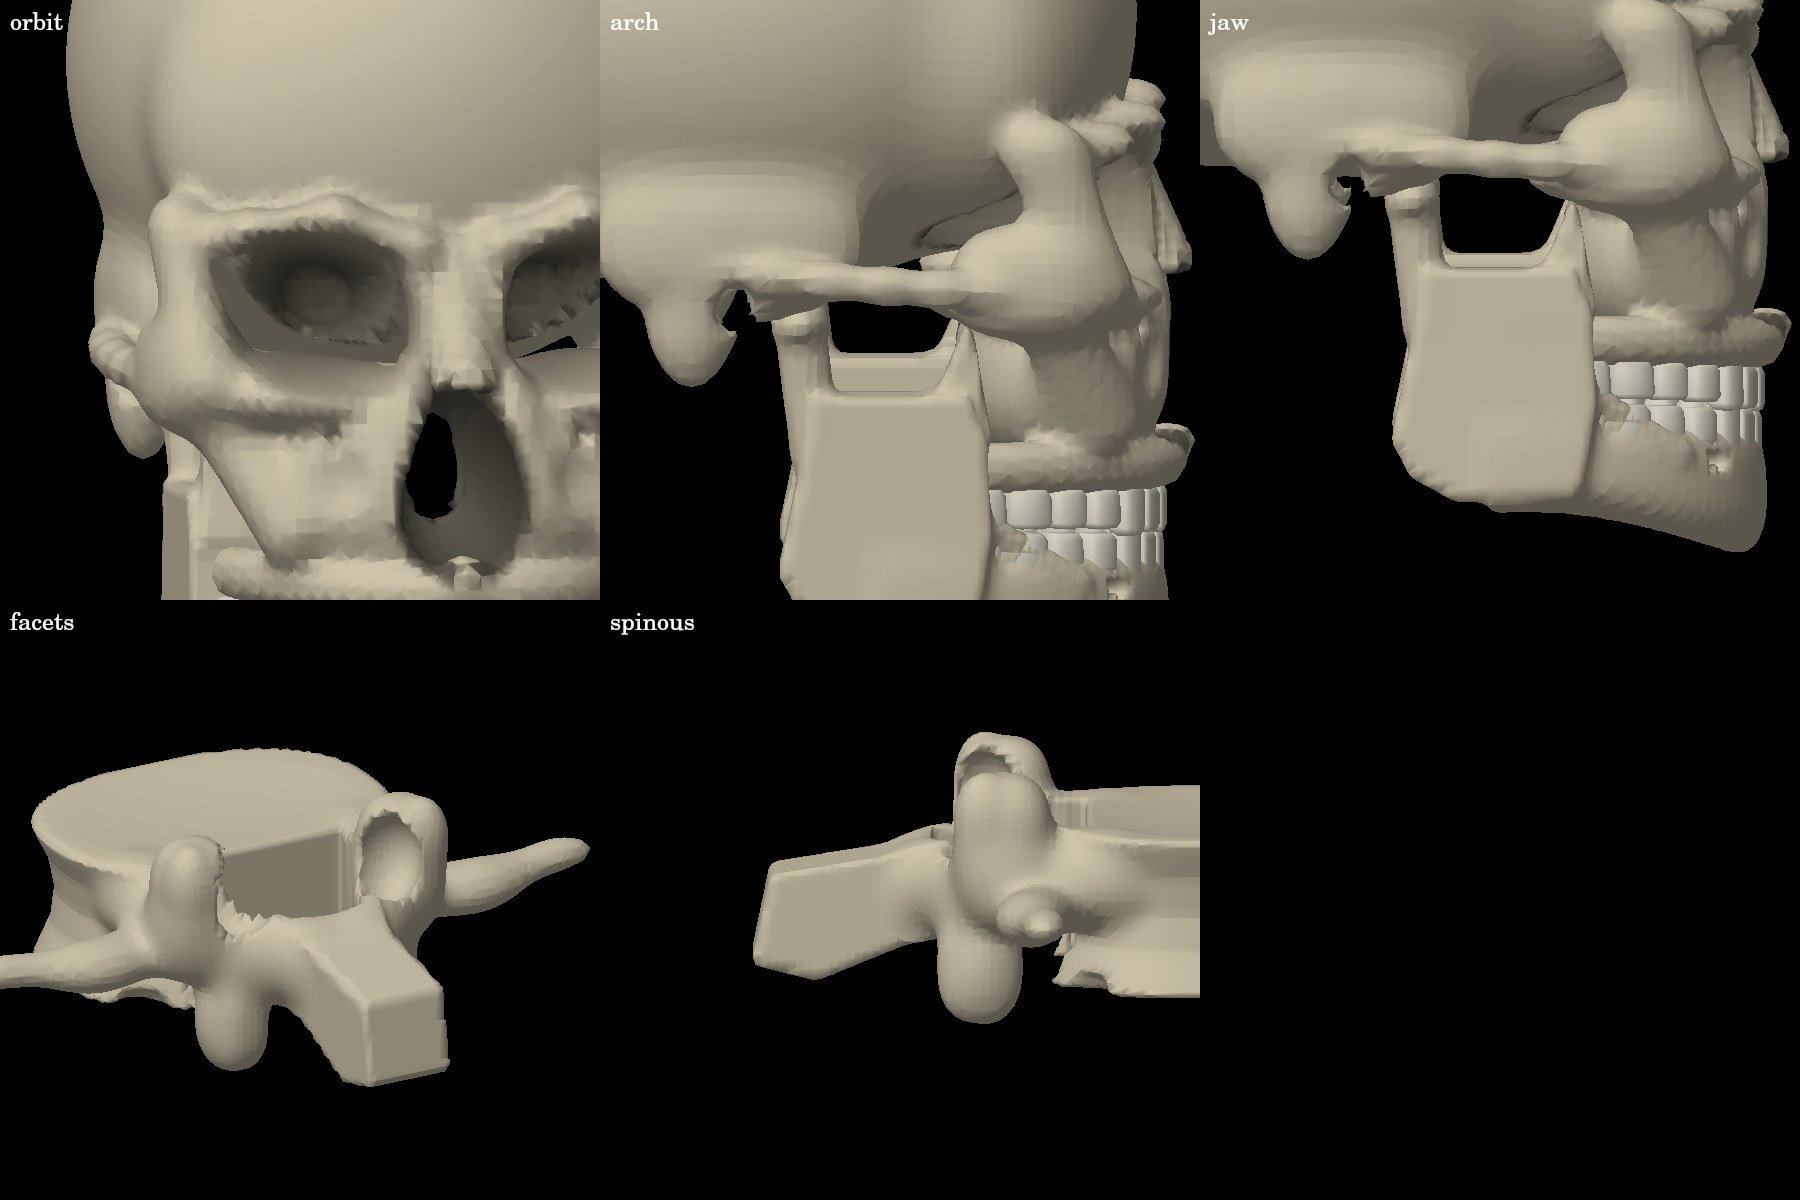
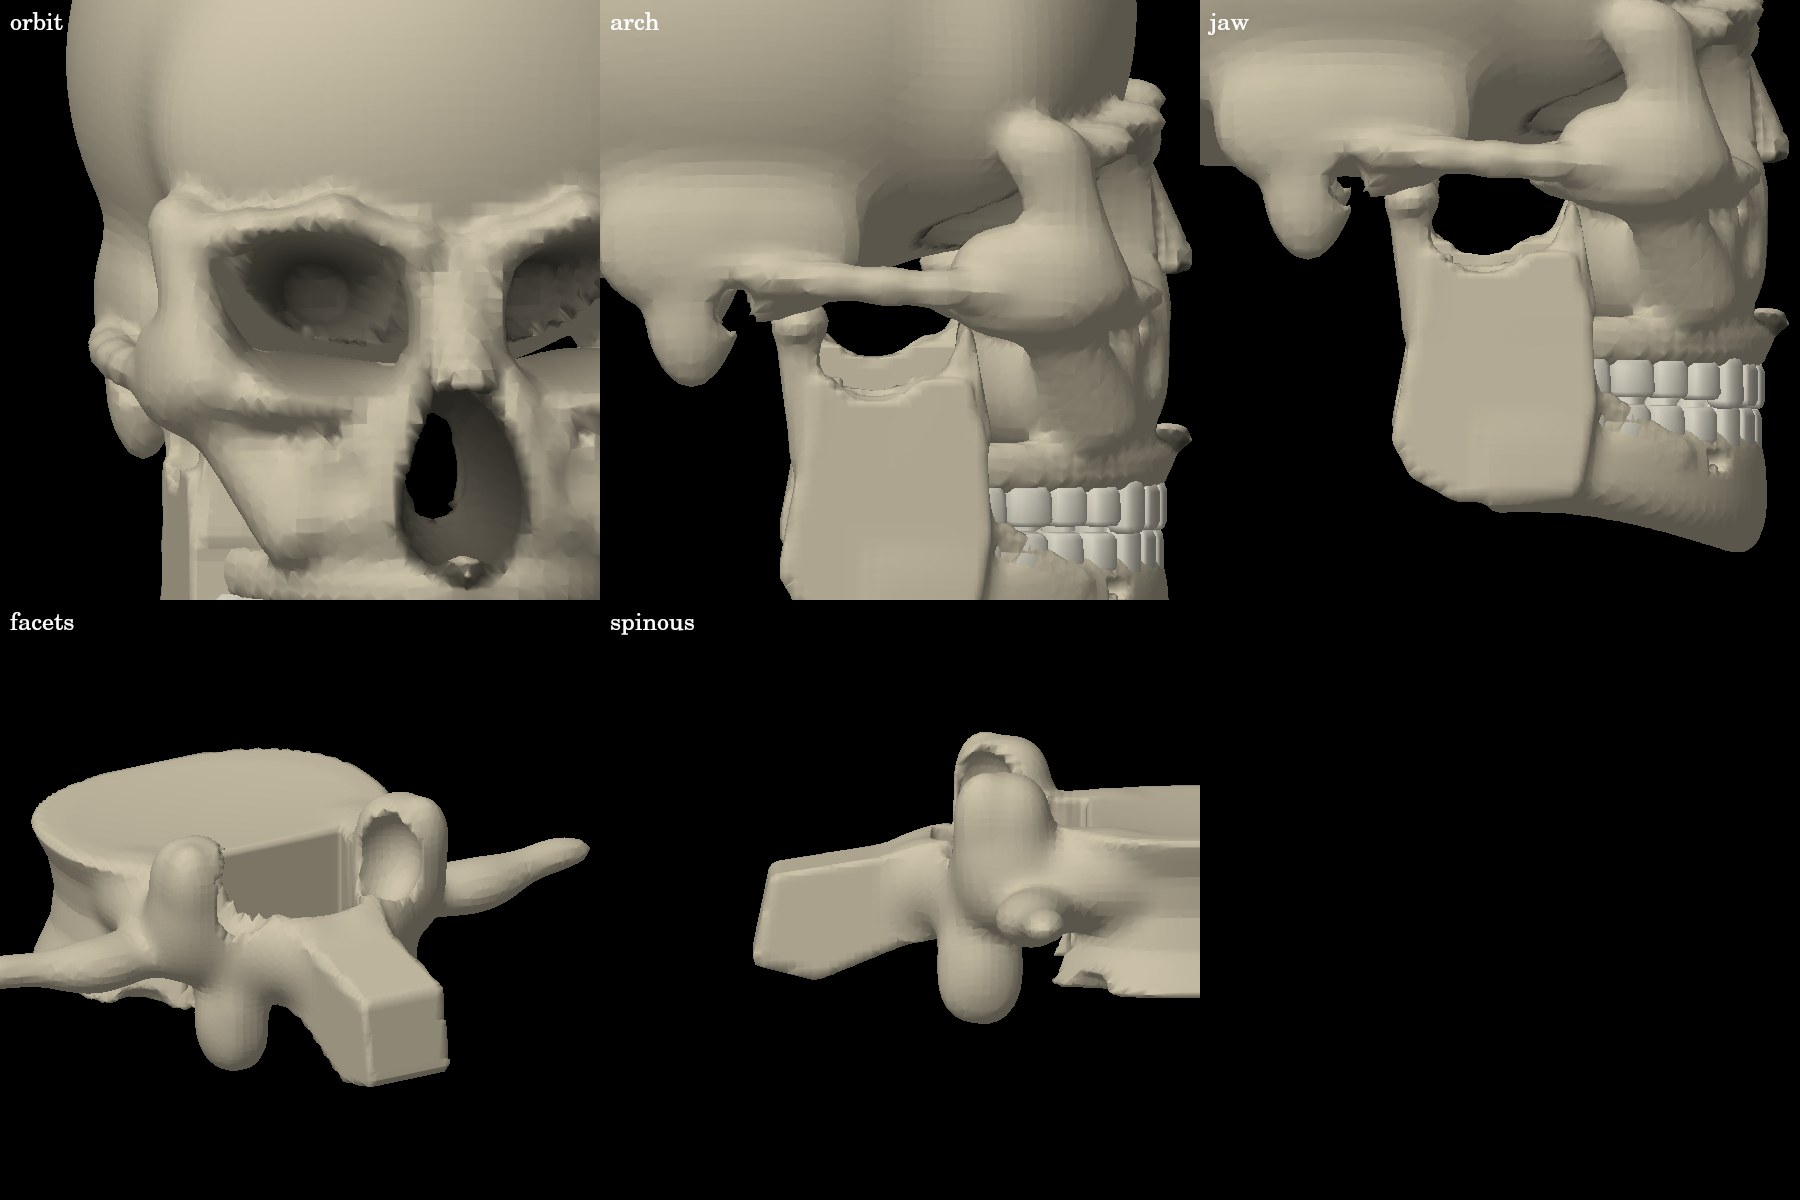
Validate final alveolar and mandibular refinements with updated evidence

diff --git a/experiments/cleanroom-bone-review-v0.5.html b/experiments/cleanroom-bone-review-v0.5.html
@@ -115,7 +115,7 @@ function skullNewField(p){
  let d=vaultD(p);
  // Maxillary body and alveolar process follow separate, connected surfaces.
  d=minBlend(d,superD(p,[0,5.05,-4.4],[4.15,2.6,2.55],2.25),.65);
- d=minBlend(d,archBand(p,4.5,5.7,1.4,[-6.75,.25],.65,[.6,0],2.4),.4);
+ d=minBlend(d,archBand(p,4.5,5.7,1.4,[-6.75,.25],.4,[.6,0],2.4),.4);
  for(const s of [-1,1]){
   // Temporal root and a shorter mastoid approximation, behind the mandibular head.
   d=minBlend(d,superD(p,[s*5.25,-2.8,-1.0],[1.25,3.2,2.0],2.3),.65);
@@ -154,11 +154,11 @@ function jawNewField(p){
  d=minBlend(d,ed(p,[0,6.85,-10.55],[1.25,.5,1.0]),.35);
  for(const s of [-1,1]){
   // Rounded gonial angle with an inclined anterior ramus border.
-  let r=polygonExtrusion(p,s*4.55,[[0,-10.2],[2.7,-10.0],[3.1,-8.1],[3.0,-6.0],[2.6,-5.0],[-.6,-5.0],[-1.4,-8.9],[-1.0,-9.65]],.6)-.25;
+  let r=polygonExtrusion(p,s*4.55,[[0,-10.2],[2.7,-10.0],[3.1,-8.1],[3.0,-6.0],[2.6,-4.6],[-.6,-4.6],[-1.4,-8.9],[-1.0,-9.65]],.6)-.25;
   r=minBlend(r,segmentD(p,[s*4.55,-.8,-6],[s*4.85,-1.15,-3.1],[.55,.6,.65]),.4);
   r=minBlend(r,ed(p,[s*4.85,-1.15,-3.05],[1.0,.6,.5]),.3);
   r=minBlend(r,polygonExtrusion(p,s*4.55,[[1.7,-5.9],[2.8,-3.25],[3.2,-5.7]],.42)-.12,.4);
-  r=Math.max(r,-ed(p,[s*4.6,.6,-3.8],[1.5,1.05,.8]));
+  r=Math.max(r,-ed(p,[s*4.6,.6,-3.8],[1.5,1.35,1.15]));
   d=minBlend(d,r,.6);
   d=minBlend(d,segmentD(p,[s*4.8,2.8,-7.5],[s*3.7,5.3,-9.3],[.25,.35,.3]),.25);
   d=Math.max(d,-ed(p,[s*2.8,6.1,-9.55],[.24,1.1,.24]));
@@ -167,7 +167,7 @@ function jawNewField(p){
 }
 function toothArchNew(){
  for(const upper of [true,false])for(let i=0;i<16;i++){
-  const t=(i+.5)*Math.PI/16,j=Math.min(i,15-i),x=4.5*Math.cos(t),y=1.4+5.7*Math.sin(t),z=(upper?-7.9:-8.95)+.45*Math.abs(Math.cos(t));
+  const t=(i+.5)*Math.PI/16,j=Math.min(i,15-i),x=4.5*Math.cos(t),y=1.4+5.7*Math.sin(t),z=(upper?-7.85:-8.95)+.45*Math.abs(Math.cos(t));
   const front=j>=6,canine=j===5,molar=j<=2,rx=front?.41:canine?.42:molar?.56:.46,ry=front?.31:canine?.4:molar?.62:.47,rz=canine?.62:front?.52:.45;
   crownMesh((upper?'上':'下')+'歯冠'+(i+1),[x*(upper?1:.97),y+(upper?.08:0),z],[rx,ry,rz],t,upper,front);
  }

diff --git a/tools/cleanroom/bone-review-shapes-v0.5.js b/tools/cleanroom/bone-review-shapes-v0.5.js
@@ -34,7 +34,7 @@ function skullNewField(p){
  let d=vaultD(p);
  // Maxillary body and alveolar process follow separate, connected surfaces.
  d=minBlend(d,superD(p,[0,5.05,-4.4],[4.15,2.6,2.55],2.25),.65);
- d=minBlend(d,archBand(p,4.5,5.7,1.4,[-6.75,.25],.65,[.6,0],2.4),.4);
+ d=minBlend(d,archBand(p,4.5,5.7,1.4,[-6.75,.25],.4,[.6,0],2.4),.4);
  for(const s of [-1,1]){
   // Temporal root and a shorter mastoid approximation, behind the mandibular head.
   d=minBlend(d,superD(p,[s*5.25,-2.8,-1.0],[1.25,3.2,2.0],2.3),.65);
@@ -73,11 +73,11 @@ function jawNewField(p){
  d=minBlend(d,ed(p,[0,6.85,-10.55],[1.25,.5,1.0]),.35);
  for(const s of [-1,1]){
   // Rounded gonial angle with an inclined anterior ramus border.
-  let r=polygonExtrusion(p,s*4.55,[[0,-10.2],[2.7,-10.0],[3.1,-8.1],[3.0,-6.0],[2.6,-5.0],[-.6,-5.0],[-1.4,-8.9],[-1.0,-9.65]],.6)-.25;
+  let r=polygonExtrusion(p,s*4.55,[[0,-10.2],[2.7,-10.0],[3.1,-8.1],[3.0,-6.0],[2.6,-4.6],[-.6,-4.6],[-1.4,-8.9],[-1.0,-9.65]],.6)-.25;
   r=minBlend(r,segmentD(p,[s*4.55,-.8,-6],[s*4.85,-1.15,-3.1],[.55,.6,.65]),.4);
   r=minBlend(r,ed(p,[s*4.85,-1.15,-3.05],[1.0,.6,.5]),.3);
   r=minBlend(r,polygonExtrusion(p,s*4.55,[[1.7,-5.9],[2.8,-3.25],[3.2,-5.7]],.42)-.12,.4);
-  r=Math.max(r,-ed(p,[s*4.6,.6,-3.8],[1.5,1.05,.8]));
+  r=Math.max(r,-ed(p,[s*4.6,.6,-3.8],[1.5,1.35,1.15]));
   d=minBlend(d,r,.6);
   d=minBlend(d,segmentD(p,[s*4.8,2.8,-7.5],[s*3.7,5.3,-9.3],[.25,.35,.3]),.25);
   d=Math.max(d,-ed(p,[s*2.8,6.1,-9.55],[.24,1.1,.24]));
@@ -86,7 +86,7 @@ function jawNewField(p){
 }
 function toothArchNew(){
  for(const upper of [true,false])for(let i=0;i<16;i++){
-  const t=(i+.5)*Math.PI/16,j=Math.min(i,15-i),x=4.5*Math.cos(t),y=1.4+5.7*Math.sin(t),z=(upper?-7.9:-8.95)+.45*Math.abs(Math.cos(t));
+  const t=(i+.5)*Math.PI/16,j=Math.min(i,15-i),x=4.5*Math.cos(t),y=1.4+5.7*Math.sin(t),z=(upper?-7.85:-8.95)+.45*Math.abs(Math.cos(t));
   const front=j>=6,canine=j===5,molar=j<=2,rx=front?.41:canine?.42:molar?.56:.46,ry=front?.31:canine?.4:molar?.62:.47,rz=canine?.62:front?.52:.45;
   crownMesh((upper?'上':'下')+'歯冠'+(i+1),[x*(upper?1:.97),y+(upper?.08:0),z],[rx,ry,rz],t,upper,front);
  }
